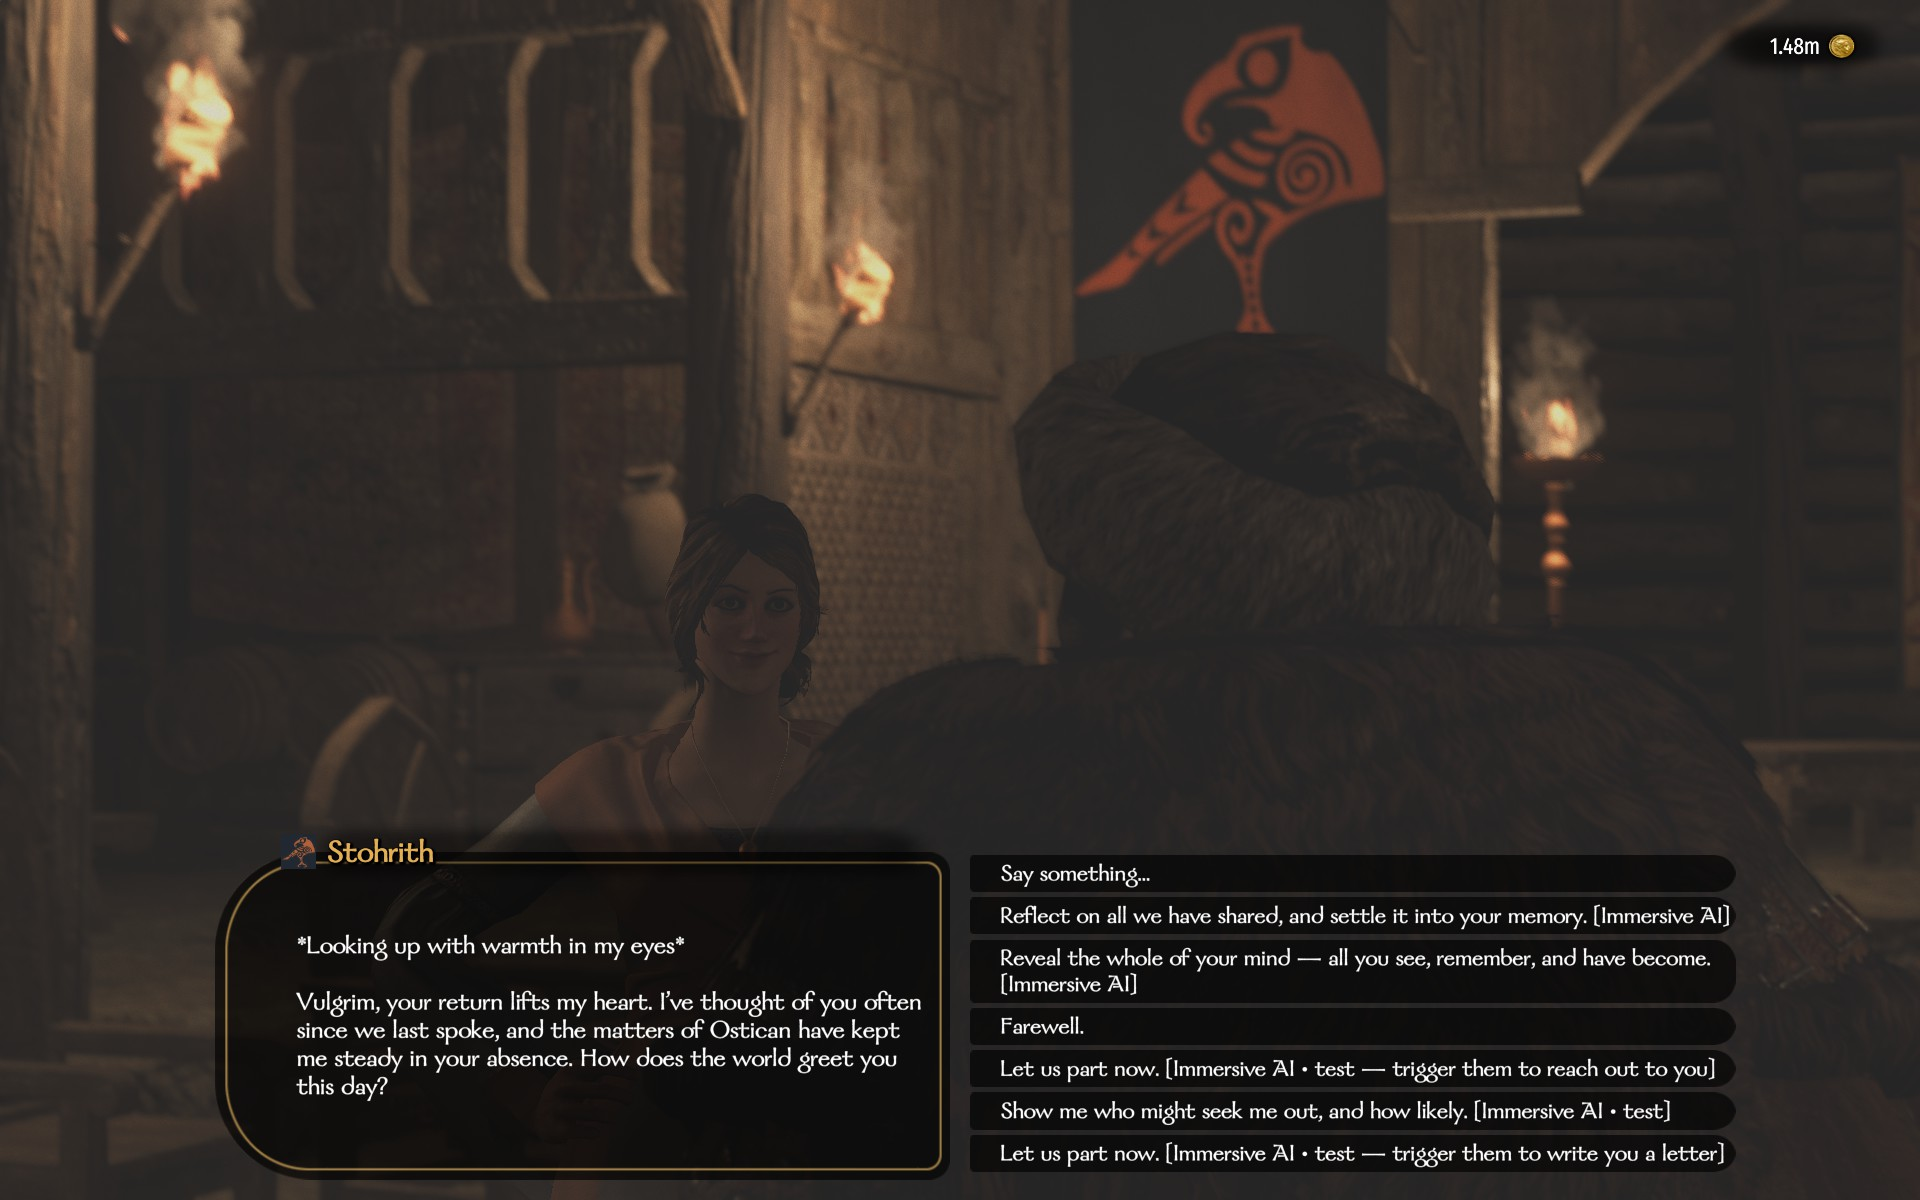
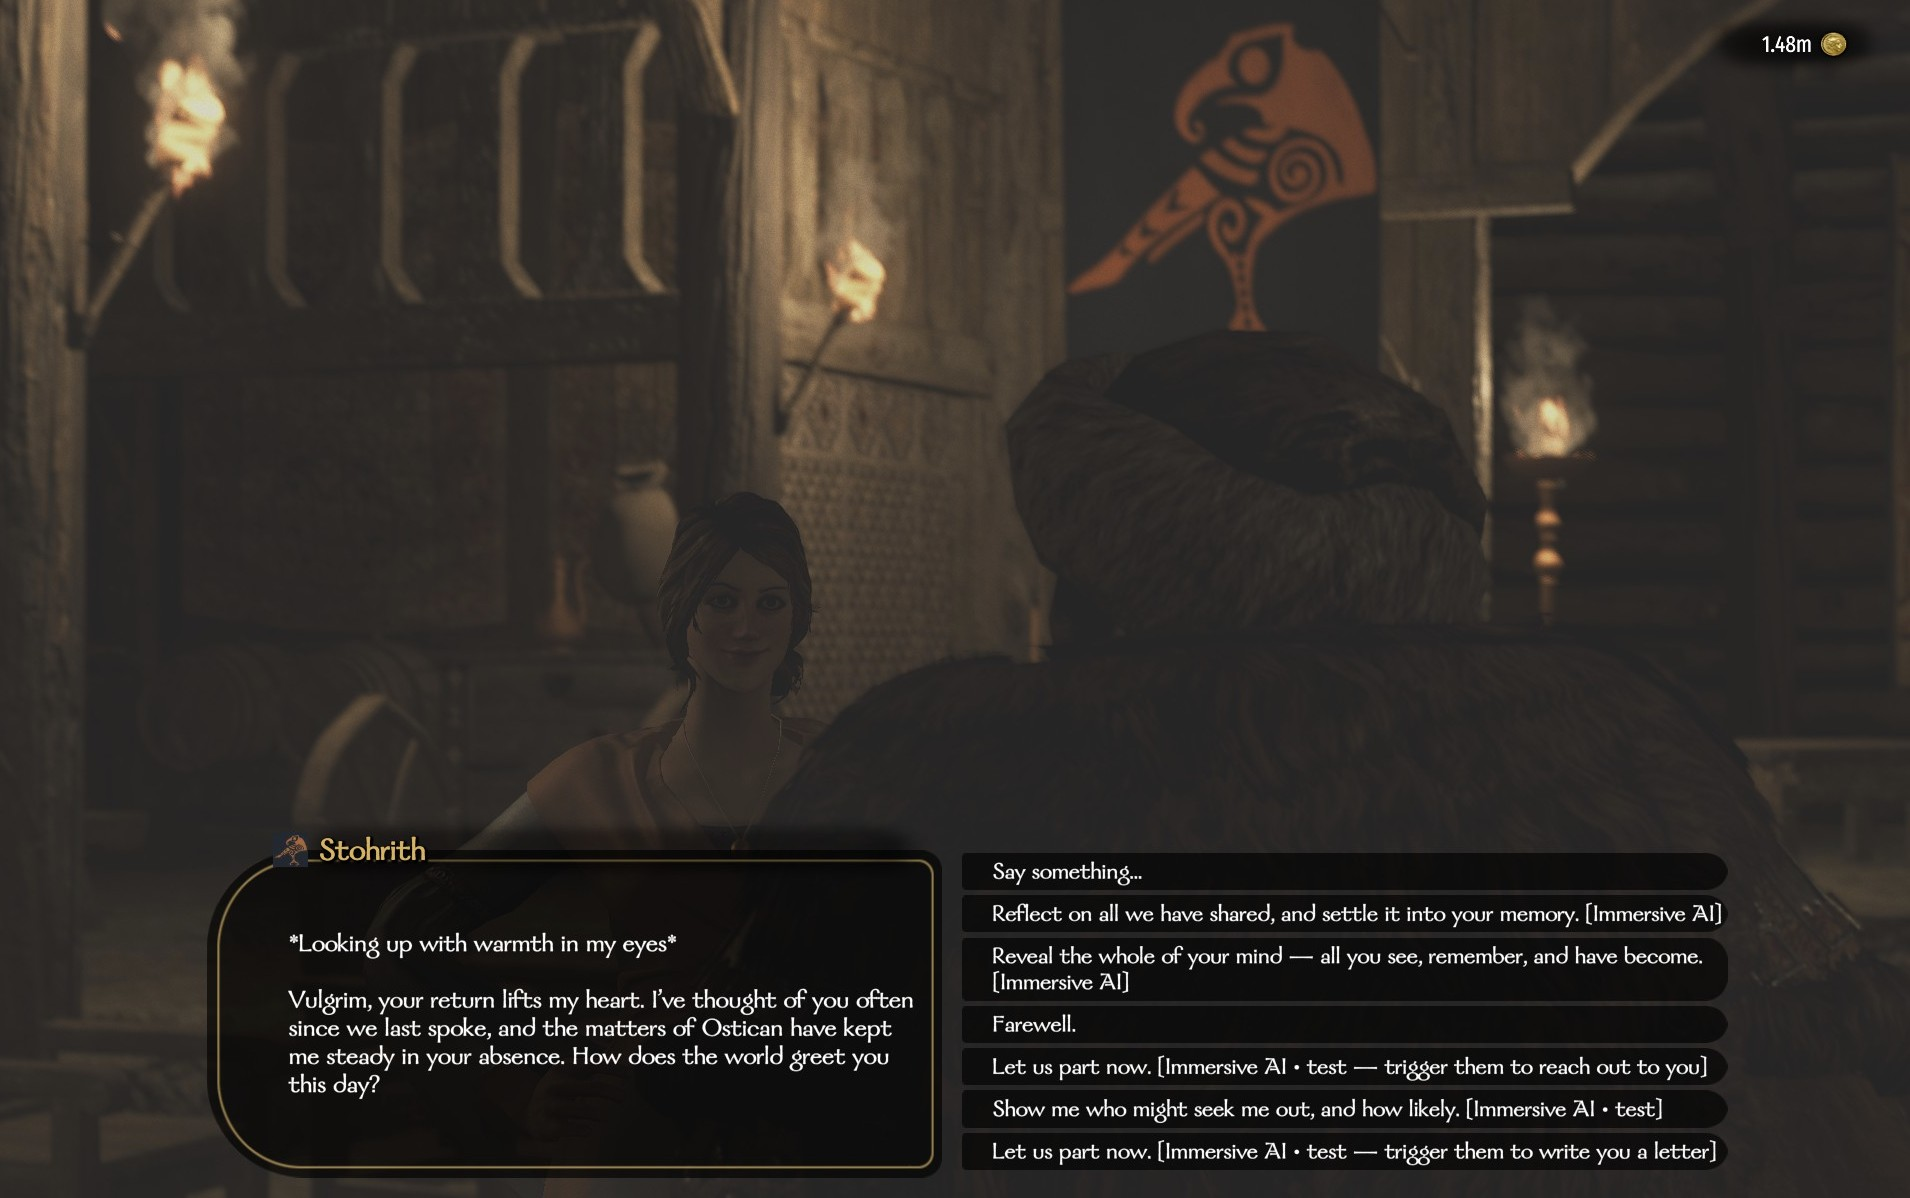
release: the mod sets sail for the Workshop — uploaded private as item 3764210301
- preview_thumbnail.jpg: a real 1024x1024 Workshop cover (Stohrith, gold frame, the pitch in
  three words), composed in tools\preview_thumbnail.html and rendered via headless Chrome
- tools\WorkshopCreate.xml + WorkshopUpdate.xml: manifests for the official
  TaleWorlds.MountAndBlade.SteamWorkshop.exe, its decompiled quirks documented inside
  (<Tasks> must be the file's first node — an <?xml?> declaration silently uploads nothing;
  the item title is re-set from SubModule.xml <Name> on every update; the press-any-key
  crash at exit is cosmetic)
- docs\steam-page-final.bbcode.txt: the final page converted to Steam BBCode for pasting
- package.ps1 / deploy.ps1: 0Harmony.LICENSE.txt now ships beside the DLL it covers (MIT)
- Screenshots renumbered + face-to-face closeup added (Anton); two parked tasks trimmed from
  TASKS_TODO, the steam-release task annotated with what remains (page polish, smoke test,
  flip Public)

diff --git a/tools/preview_thumbnail.html b/tools/preview_thumbnail.html
@@ -1,0 +1,115 @@
+<!DOCTYPE html>
+<html>
+<head>
+<meta charset="utf-8">
+<style>
+  * { margin: 0; padding: 0; box-sizing: border-box; }
+  html, body { width: 1024px; height: 1024px; overflow: hidden; }
+  .canvas {
+    position: relative;
+    width: 1024px; height: 1024px;
+    background: #0d0a07;
+    font-family: 'Palatino Linotype', 'Book Antiqua', Georgia, serif;
+  }
+  .art {
+    position: absolute; inset: 0;
+    background-image: url('file:///C:/Users/Trax/Documents/BannerlordMods/ImmersiveAI/Screenshots/1_face_to_face_conversation.jpg');
+    background-size: 2100px auto;
+    background-position: -472px -260px;
+    background-repeat: no-repeat;
+    filter: brightness(1.55) contrast(1.05) saturate(1.15);
+  }
+  /* vignette + bottom fade for the title block */
+  .shade {
+    position: absolute; inset: 0;
+    background:
+      radial-gradient(ellipse 120% 90% at 42% 32%, rgba(0,0,0,0) 35%, rgba(13,10,7,0.55) 78%, rgba(13,10,7,0.9) 100%),
+      linear-gradient(to bottom, rgba(13,10,7,0.25) 0%, rgba(0,0,0,0) 18%, rgba(0,0,0,0) 36%, rgba(13,10,7,0.7) 50%, rgba(13,10,7,1) 62%);
+  }
+  /* the gold frame, like the game's dialog box */
+  .frame {
+    position: absolute; inset: 22px;
+    border: 3px solid rgba(214, 178, 94, 0.85);
+    border-radius: 26px;
+    box-shadow: 0 0 0 1px rgba(0,0,0,0.6), inset 0 0 0 1px rgba(0,0,0,0.6), inset 0 0 60px rgba(0,0,0,0.35);
+  }
+  .titleblock {
+    position: absolute; left: 0; right: 0; bottom: 64px;
+    text-align: center;
+  }
+  .ornament {
+    color: #d6b25e; font-size: 30px; letter-spacing: 14px;
+    text-shadow: 0 2px 6px rgba(0,0,0,0.9);
+    margin-bottom: 10px;
+  }
+  h1 {
+    color: #e8c874;
+    font-size: 118px;
+    font-weight: 600;
+    letter-spacing: 6px;
+    font-variant: small-caps;
+    line-height: 1;
+    text-shadow: 0 3px 10px rgba(0,0,0,0.95), 0 0 45px rgba(232, 200, 116, 0.28);
+  }
+  .tagline {
+    margin-top: 20px;
+    color: #f0e4c8;
+    font-size: 41px;
+    font-style: italic;
+    letter-spacing: 0.5px;
+    text-shadow: 0 2px 8px rgba(0,0,0,0.95);
+  }
+  .features {
+    margin-top: 26px;
+    color: #cdb27a;
+    font-size: 27px;
+    font-variant: small-caps;
+    letter-spacing: 2px;
+    text-shadow: 0 2px 6px rgba(0,0,0,0.95);
+  }
+  .features .dot { color: #8a7448; padding: 0 12px; }
+  /* small quote bubble anchored to her — the living-words hook */
+  .quote {
+    position: absolute; top: 96px; right: 72px;
+    max-width: 400px;
+    background: rgba(16, 12, 8, 0.82);
+    border: 2px solid rgba(214, 178, 94, 0.75);
+    border-radius: 18px;
+    padding: 22px 28px;
+    color: #f3ead4;
+    font-size: 31px;
+    line-height: 1.35;
+    font-style: italic;
+    text-shadow: 0 1px 3px rgba(0,0,0,0.8);
+    box-shadow: 0 6px 24px rgba(0,0,0,0.6);
+  }
+  .quote .who {
+    display: block;
+    margin-top: 12px;
+    font-style: normal;
+    font-variant: small-caps;
+    letter-spacing: 2px;
+    color: #d6b25e;
+    font-size: 26px;
+    text-align: right;
+  }
+</style>
+</head>
+<body>
+  <div class="canvas">
+    <div class="art"></div>
+    <div class="shade"></div>
+    <div class="quote">
+      &ldquo;Your return lifts my heart. I&rsquo;ve thought of you often since we last spoke&hellip;&rdquo;
+      <span class="who">— spoken, not scripted</span>
+    </div>
+    <div class="frame"></div>
+    <div class="titleblock">
+      <div class="ornament">✦ ✦ ✦</div>
+      <h1>Immersive AI</h1>
+      <div class="tagline">They remember you. They feel. They seek you out.</div>
+      <div class="features">AI dialogue <span class="dot">·</span> living memory <span class="dot">·</span> letters <span class="dot">·</span> distinct voices</div>
+    </div>
+  </div>
+</body>
+</html>

diff --git a/TASKS_TODO.md b/TASKS_TODO.md
@@ -12,14 +12,15 @@ MUST BE DONE FOR V1 RELEASE:
 - [ ] steam release
     release to steam for everyone to enjoy with good descriptions; upload from tools\package.ps1's
     clean dist\ImmersiveAI layout
+    STATUS 2026.07.13: UPLOADED, private — Workshop item 3764210301, via the official
+    TaleWorlds.MountAndBlade.SteamWorkshop.exe (manifests: tools\WorkshopCreate.xml /
+    WorkshopUpdate.xml, quirks documented inside). Thumbnail done (Screenshots\preview_thumbnail.jpg,
+    source tools\preview_thumbnail.html). Page ready in BBCode: docs\steam-page-final.bbcode.txt.
+    Remains (Anton, on the item page): paste title+description, upload the numbered screenshots,
+    tick the AI-content disclosure, subscribe+smoke-test the Workshop copy, flip Public — and make
+    the GitHub repo public to match.
 
 POST V1 or NOT FULLY DECIDED:
-- [ ] OpenAI /v1/responses migration
-    the chat-completions endpoint refuses function tools + reasoning together on gpt-5.6 (hit live
-    2026.07.12); the /v1/responses API lifts that limit and is OpenAI's forward path — a contained
-    rework of OpenAIChatClient's payload/response shapes when it's worth it. NOTE 2026.07.13:
-    reasoning was removed entirely on every backend (Anton's call — thinking NPCs answered "...");
-    this task only matters if reasoning ever comes back, so it is parked deeper.
 - [ ] Utility model split (cost saving)
     a UtilityModel per backend (gpt-5.6-luna / claude-haiku-4-5) for the small calls — feeling number,
     desire yes/no, search refining — cuts roughly a third of cost; parked until the ledger's real
@@ -33,5 +34,3 @@ POST V1 or NOT FULLY DECIDED:
     NPCs that can ACT, not just know (found while mining ChatAi for the "what the NPC can interact with" task, [phone redacted]): ChatAi lets the LLM trigger real game actions via its NpcDecisionPlanner/AIActionEvaluator — travel to a settlement, patrol, join the player's party (or offer to for coin), accept a join offer, marry the player, give the player gold, start a spar/fight. The info half is done (recall_company + situation whispers); the acting half deserves its own design pass — likely the same native tool-call channel (an "act" tool family beside the recalls), each action gated and phrased to the NPC as a choice of their own will, never a command. Decide scope with Anton first: which actions, what limits, how consent/impossibility is narrated back.
 - [ ] NPC to NPC chat
     In the future have a system that lets the NPC pick a person (another NPC) to talk to and for them to be able to exchange a few messages and for me to be able to see the log or watch them in real time talk, again maybe based on how popular they are, but even the unused to have the option to do it. So they should have a general deep memory, a per person deep memory and per person hist maybe
-- [ ] date system
-   Dates, trysts & the shared grammar of gestures (Deutheuda's dream) — plan drafted and Anton is mulling it over, see `docs/plan-dates-and-roleplay.md`. Short of it: Phase 1 "spend the evening together" (settlement menu option, hours+denars cost, date-occasion situation, Angel narrates the setting, closing whole-evening feeling call) + emote rendering (`*kissing you*` spans as soft narration in the chat window, whisper making the asterisk grammar mutual and weighted by the heart's standing); Phase 2 the binding promise (`propose_meeting` tool, LetterBag-style persistence, missed dates are recorded and felt); Phase 3 gifts, with the "NPCs that ACT" task. Open questions for Anton at the end of the doc.